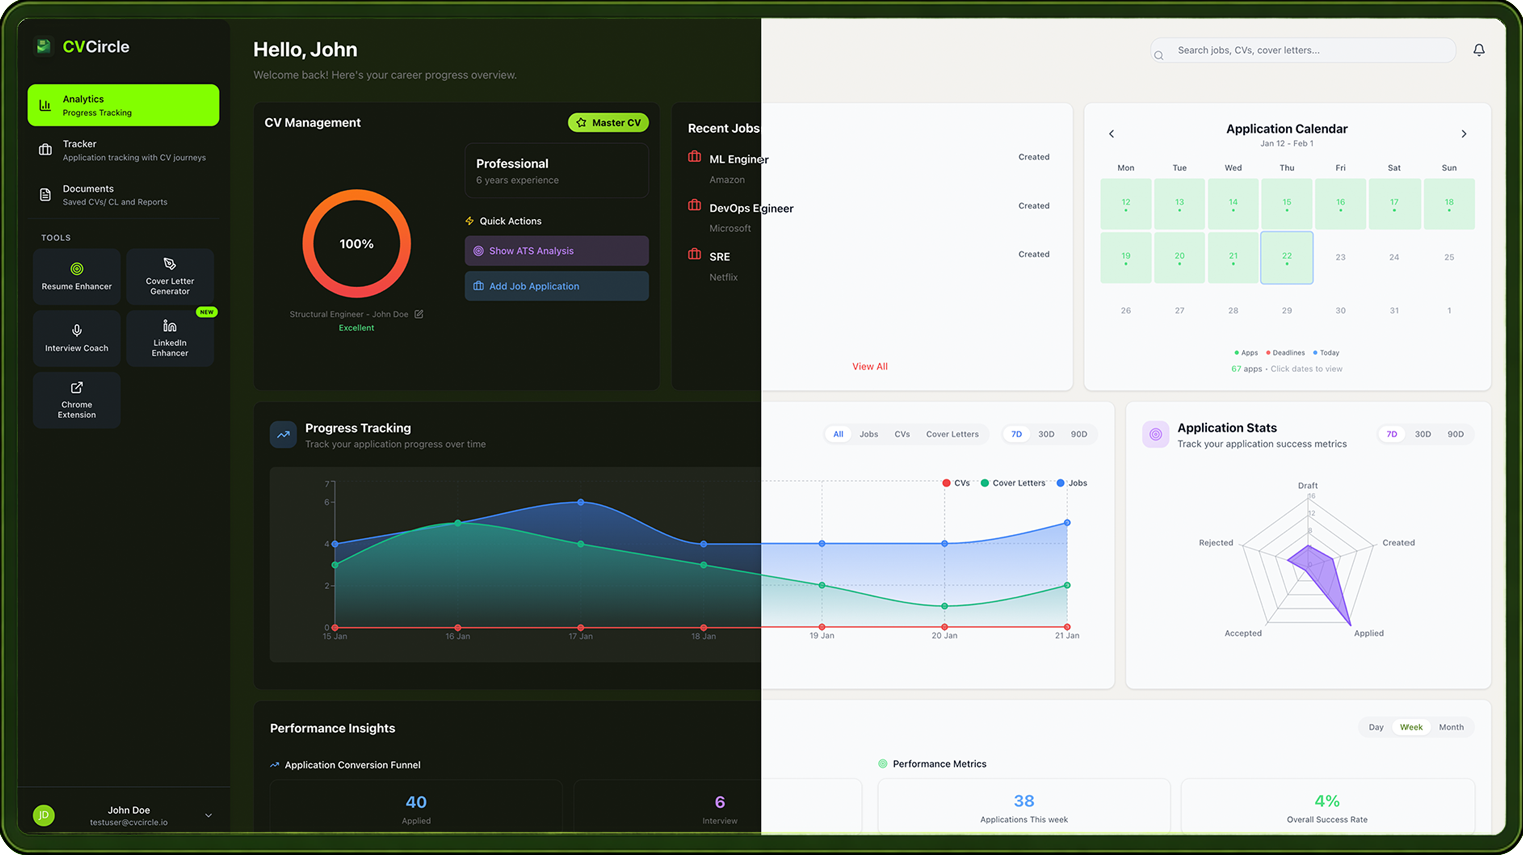
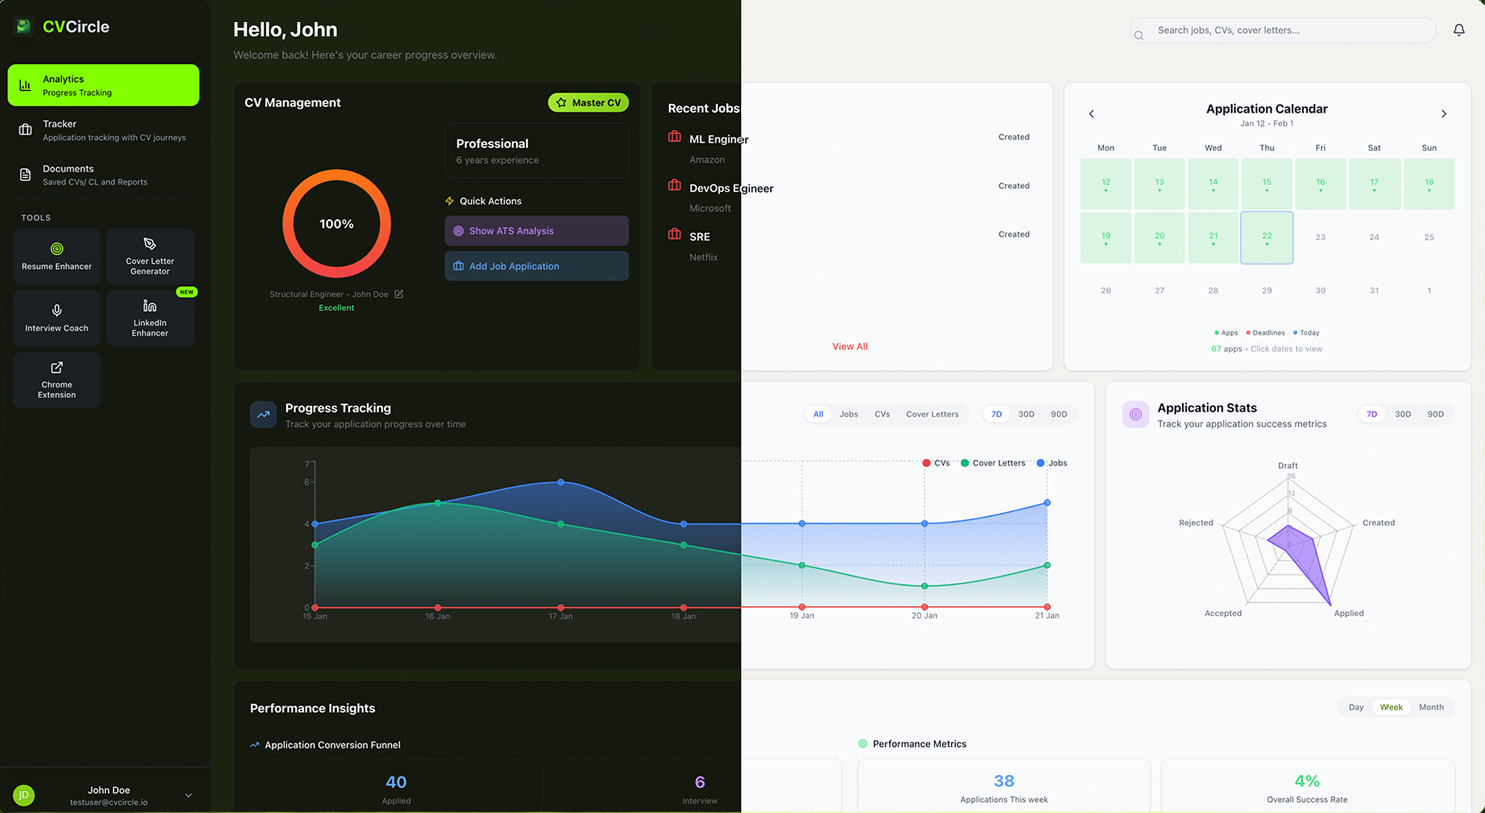
style: force dark theme on pricing section and update feature image assets

diff --git a/src/app/page.tsx b/src/app/page.tsx
@@ -245,11 +245,13 @@ function LandingPageContent() {
           {/* Testimonials Section */}
           <Testimonials />
 
-          {/* Pricing Section */}
-          <Pricing onPlanSelect={(plan) => {
-            // Redirect to sign-up with plan selection
-            window.location.href = `/sign-up?plan=${encodeURIComponent(plan.name)}`;
-          }} />
+          {/* Pricing Section (Forced Dark Theme) */}
+          <div className="dark">
+            <Pricing onPlanSelect={(plan) => {
+              // Redirect to sign-up with plan selection
+              window.location.href = `/sign-up?plan=${encodeURIComponent(plan.name)}`;
+            }} />
+          </div>
 
           {/* FAQ Section */}
           <FAQ />
